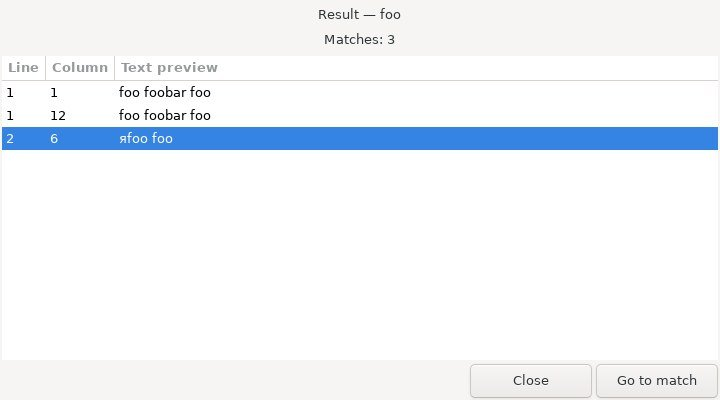
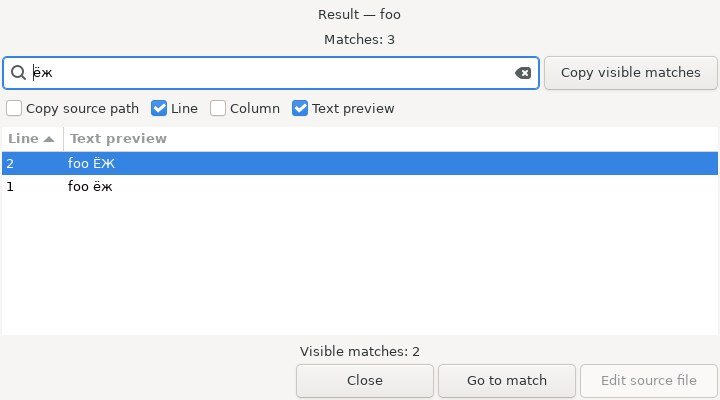
Add search result filtering, output fields, TSV clipboard and native source opening

diff --git a/src/insight-diff.c b/src/insight-diff.c
@@ -26,6 +26,7 @@ typedef struct {
  GtkListStore *list; GtkWidget *hunk_view; GtkTextBuffer *output; GtkTreeSelection *selection;
  gchar *sources[2],*loaded_paths[2],*saved;
  InsightDiff diff; GtkTextMark **marks;
+ gboolean search_fields[4];
  GPtrArray *history; guint position;guint64 history_serial; gboolean changing,user_action,pending;
 } Merge;
 static GKeyFile *view_defaults;
@@ -36,12 +37,13 @@ static void view_controls(Merge *m,GtkWidget **controls) {
  GtkWidget *items[]={m->mono,m->numbers,m->list_toggle,m->wrap_toggle,m->sync,m->vertical,m->overview,m->ignore_space,m->ignore_eol,m->visible_space,m->visible_eol};for(guint i=0;i<G_N_ELEMENTS(items);i++) controls[i]=items[i];
 }
 static void view_copy(GKeyFile *from,GKeyFile *to) {
- g_key_file_remove_group(to,view_group,NULL);const gchar *extra[]={"version","zoom","width","height"};
+ g_key_file_remove_group(to,view_group,NULL);const gchar *extra[]={"version","zoom","width","height","search-file","search-line","search-column","search-text"};
  for(guint i=0;i<G_N_ELEMENTS(view_checks)+G_N_ELEMENTS(extra);i++) { const gchar *name=i<G_N_ELEMENTS(view_checks) ? view_checks[i] : extra[i-G_N_ELEMENTS(view_checks)];gchar *value=g_key_file_get_value(from,view_group,name,NULL);if(value && strlen(value)<=128) g_key_file_set_value(to,view_group,name,value);g_free(value); }
 }
 static void view_save(Merge *m,GKeyFile *settings) {
  GtkWidget *controls[G_N_ELEMENTS(view_checks)];view_controls(m,controls);g_key_file_set_integer(settings,view_group,"version",1);
  for(guint i=0;i<G_N_ELEMENTS(view_checks);i++) g_key_file_set_boolean(settings,view_group,view_checks[i],gtk_toggle_button_get_active(GTK_TOGGLE_BUTTON(controls[i])));
+ const gchar *fields[]={"search-file","search-line","search-column","search-text"};for(guint i=0;i<4;i++) g_key_file_set_boolean(settings,view_group,fields[i],m->search_fields[i]);
  gint width,height;gtk_window_get_size(GTK_WINDOW(m->window),&width,&height);g_key_file_set_integer(settings,view_group,"width",CLAMP(width,640,4000));g_key_file_set_integer(settings,view_group,"height",CLAMP(height,400,2400));g_key_file_set_integer(settings,view_group,"zoom",gtk_spin_button_get_value_as_int(GTK_SPIN_BUTTON(m->zoom)));
 }
 static gboolean view_integer(GKeyFile *settings,const gchar *name,gint low,gint high,gint *out) {
@@ -51,6 +53,7 @@ static void view_restore(Merge *m,GKeyFile *settings) {
  if(!settings || g_key_file_get_integer(settings,view_group,"version",NULL)!=1) return;
  GtkWidget *controls[G_N_ELEMENTS(view_checks)];view_controls(m,controls);
  for(guint i=0;i<G_N_ELEMENTS(view_checks);i++) { GError *error=NULL;gboolean value=g_key_file_get_boolean(settings,view_group,view_checks[i],&error);if(!error) gtk_toggle_button_set_active(GTK_TOGGLE_BUTTON(controls[i]),value);g_clear_error(&error); }
+ const gchar *fields[]={"search-file","search-line","search-column","search-text"};for(guint i=0;i<4;i++) { GError *error=NULL;gboolean value=g_key_file_get_boolean(settings,view_group,fields[i],&error);if(!error) m->search_fields[i]=value;g_clear_error(&error); }
  gint value;if(view_integer(settings,"zoom",50,250,&value)) gtk_spin_button_set_value(GTK_SPIN_BUTTON(m->zoom),value);gint width=1100,height=700;view_integer(settings,"width",640,4000,&width);view_integer(settings,"height",400,2400,&height);gtk_window_resize(GTK_WINDOW(m->window),width,height);
 }
 void insight_diff_read(GKeyFile *settings) { if(!view_defaults) view_defaults=g_key_file_new();view_copy(settings,view_defaults); }
@@ -248,6 +251,39 @@ static void selection_search(Merge *m,guint side,gint direction) {
  if(direction) { gtk_toggle_button_set_active(GTK_TOGGLE_BUTTON(m->find_word),TRUE);gtk_text_buffer_select_range(buffer,&a,&z);find_text(m,direction<0);gtk_widget_grab_focus(m->views[side]); }
 }
 static void search_result_activated(GtkTreeView *view,GtkTreePath *path,GtkTreeViewColumn *column,gpointer dialog) { (void)view;(void)path;(void)column;gtk_dialog_response(GTK_DIALOG(dialog),GTK_RESPONSE_APPLY); }
+typedef struct { GtkWidget *dialog,*tree,*filter_entry,*fields[4],*status;GtkTreeModelFilter *filter;gchar *fold,*source;gboolean can_edit,closing; } SearchOutput;
+static gboolean search_output_visible(GtkTreeModel *model,GtkTreeIter *iter,gpointer data) {
+ SearchOutput *out=data;if(!*out->fold) return TRUE;gchar *text=NULL;gtk_tree_model_get(model,iter,4,&text,-1);gchar *fold=g_utf8_casefold(text ? text : "",-1);gboolean visible=strstr(fold,out->fold)!=NULL;g_free(fold);g_free(text);return visible;
+}
+static void search_output_selection(GtkTreeSelection *selection,gpointer data) {
+ SearchOutput *out=data;if(out->closing) return;GtkTreeIter iter;GtkTreeModel *model;gboolean selected=gtk_tree_selection_get_selected(selection,&model,&iter);gtk_dialog_set_response_sensitive(GTK_DIALOG(out->dialog),GTK_RESPONSE_APPLY,selected);gtk_dialog_set_response_sensitive(GTK_DIALOG(out->dialog),GTK_RESPONSE_YES,selected && out->can_edit);
+}
+static void search_output_filter(GtkEditable *entry,gpointer data) {
+ SearchOutput *out=data;if(out->closing) return;g_free(out->fold);out->fold=g_utf8_casefold(gtk_entry_get_text(GTK_ENTRY(entry)),-1);gtk_tree_model_filter_refilter(out->filter);gchar *label=g_strdup_printf("Visible matches: %u",gtk_tree_model_iter_n_children(gtk_tree_view_get_model(GTK_TREE_VIEW(out->tree)),NULL));gtk_label_set_text(GTK_LABEL(out->status),label);g_free(label);
+}
+static void search_output_columns(GtkToggleButton *button,gpointer data) {
+ (void)button;SearchOutput *out=data;if(out->closing) return;for(guint i=0;i<3;i++) gtk_tree_view_column_set_visible(gtk_tree_view_get_column(GTK_TREE_VIEW(out->tree),i),gtk_toggle_button_get_active(GTK_TOGGLE_BUTTON(out->fields[i+1])));
+}
+static void tsv_field(GString *out,const gchar *text) {
+ for(const gchar *p=text;*p;p++) { if(*p=='\t') g_string_append(out,"\\t");else if(*p=='\r') g_string_append(out,"\\r");else if(*p=='\n') g_string_append(out,"\\n");else if(*p=='\\') g_string_append(out,"\\\\");else g_string_append_c(out,*p); }
+}
+static void search_output_copy(GtkWidget *button,gpointer data) {
+ (void)button;SearchOutput *out=data;if(out->closing) return;gboolean fields[4],any=FALSE;for(guint i=0;i<4;i++) { fields[i]=gtk_toggle_button_get_active(GTK_TOGGLE_BUTTON(out->fields[i]));any|=fields[i]; }
+ if(!any) { gtk_label_set_text(GTK_LABEL(out->status),"Select at least one output field.");return; }
+ GString *text=g_string_new(NULL);const gchar *headers[]={"File","Line","Column","Text"};gboolean first=TRUE;
+ for(guint i=0;i<4;i++) if(fields[i]) { if(!first) g_string_append_c(text,'\t');g_string_append(text,headers[i]);first=FALSE; }
+  g_string_append_c(text,'\n');
+ GtkTreeModel *model=gtk_tree_view_get_model(GTK_TREE_VIEW(out->tree));GtkTreeIter iter;guint rows=0;gboolean exceeded=FALSE;
+ for(gboolean valid=gtk_tree_model_get_iter_first(model,&iter);valid;valid=gtk_tree_model_iter_next(model,&iter)) {
+  guint line,column;gchar *excerpt=NULL;gtk_tree_model_get(model,&iter,2,&line,3,&column,4,&excerpt,-1);gchar *line_text=g_strdup_printf("%u",line),*column_text=g_strdup_printf("%u",column);const gchar *values[]={out->source,line_text,column_text,excerpt ? excerpt : ""};first=TRUE;
+  for(guint i=0;i<4;i++) if(fields[i]) { if(!first) g_string_append_c(text,'\t');tsv_field(text,values[i]);first=FALSE; }
+  g_string_append_c(text,'\n');g_free(excerpt);g_free(line_text);g_free(column_text);rows++;
+  if(text->len>4*1024*1024) { exceeded=TRUE;break; }
+ }
+ if(exceeded) gtk_label_set_text(GTK_LABEL(out->status),"Copy limit: 4 MiB. Clipboard unchanged.");
+ else { gtk_clipboard_set_text(gtk_clipboard_get(GDK_SELECTION_CLIPBOARD),text->str,text->len);gchar *label=g_strdup_printf("Copied visible matches: %u",rows);gtk_label_set_text(GTK_LABEL(out->status),label);g_free(label); }
+ g_string_free(text,TRUE);
+}
 static void find_all(Merge *m,guint side) {
  if(m->busy || side>2) return;
  const gchar *query=gtk_entry_get_text(GTK_ENTRY(m->find_entry));if(!*query) { gtk_label_set_text(GTK_LABEL(m->find_status),"Enter search text.");return; }
@@ -260,14 +296,21 @@ static void find_all(Merge *m,guint side) {
   gchar *excerpt=gtk_text_buffer_get_text(buffer,&begin,&end,TRUE);for(gchar *p=excerpt;*p;p++) if(*p=='\r'||*p=='\n'||*p=='\t') *p=' ';
   GtkTreeIter iter;gtk_list_store_append(model,&iter);gtk_list_store_set(model,&iter,0,gtk_text_iter_get_offset(&a),1,gtk_text_iter_get_offset(&z),2,gtk_text_iter_get_line(&a)+1,3,gtk_text_iter_get_line_offset(&a)+1,4,excerpt,-1);g_free(excerpt);count++;start=z;
  }
- GtkWidget *dialog=gtk_dialog_new_with_buttons("Pane Search Results",GTK_WINDOW(window),GTK_DIALOG_MODAL|GTK_DIALOG_DESTROY_WITH_PARENT,"Close",GTK_RESPONSE_CANCEL,"Go to match",GTK_RESPONSE_APPLY,NULL);g_object_ref(dialog);gtk_widget_set_name(dialog,"insight-diff-search-results");gtk_window_set_default_size(GTK_WINDOW(dialog),720,400);
+ GtkWidget *dialog=gtk_dialog_new_with_buttons("Pane Search Results",GTK_WINDOW(window),GTK_DIALOG_MODAL|GTK_DIALOG_DESTROY_WITH_PARENT,"Close",GTK_RESPONSE_CANCEL,"Go to match",GTK_RESPONSE_APPLY,"Edit source file",GTK_RESPONSE_YES,NULL);g_object_ref(dialog);gtk_widget_set_name(dialog,"insight-diff-search-results");gtk_window_set_default_size(GTK_WINDOW(dialog),720,400);
  GtkWidget *box=gtk_dialog_get_content_area(GTK_DIALOG(dialog));gchar *heading=g_strdup_printf("%s — %s",insight_tr(side==0 ? "Left" : side==1 ? "Right" : "Result"),query);GtkWidget *pattern=gtk_label_new(heading);g_free(heading);gtk_label_set_ellipsize(GTK_LABEL(pattern),PANGO_ELLIPSIZE_END);gtk_box_pack_start(GTK_BOX(box),pattern,FALSE,FALSE,4);gchar *summary=g_strdup_printf(truncated ? "Showing first %u matches (limit reached)." : "Matches: %u",count);gtk_box_pack_start(GTK_BOX(box),gtk_label_new(summary),FALSE,FALSE,4);g_free(summary);
- GtkWidget *tree=gtk_tree_view_new_with_model(GTK_TREE_MODEL(model));g_object_unref(model);gtk_widget_set_name(tree,"insight-diff-search-results-list");g_signal_connect_object(tree,"row-activated",G_CALLBACK(search_result_activated),dialog,0);const gchar *titles[]={"Line","Column","Text preview"};for(guint i=0;i<3;i++) gtk_tree_view_insert_column_with_attributes(GTK_TREE_VIEW(tree),-1,titles[i],gtk_cell_renderer_text_new(),"text",i+2,NULL);
- GtkWidget *scroll=gtk_scrolled_window_new(NULL,NULL);gtk_container_add(GTK_CONTAINER(scroll),tree);gtk_box_pack_start(GTK_BOX(box),scroll,TRUE,TRUE,4);gtk_dialog_set_response_sensitive(GTK_DIALOG(dialog),GTK_RESPONSE_APPLY,count>0);GtkTreeSelection *selection=g_object_ref(gtk_tree_view_get_selection(GTK_TREE_VIEW(tree)));if(count) { GtkTreePath *path=gtk_tree_path_new_first();gtk_tree_view_set_cursor(GTK_TREE_VIEW(tree),path,NULL,FALSE);gtk_tree_path_free(path); }gtk_widget_show_all(dialog);
+ SearchOutput *out=g_new0(SearchOutput,1);out->dialog=dialog;out->fold=g_strdup("");gchar *native_source=side<2 && m->loaded_paths[side] ? g_strdup(m->loaded_paths[side]) : NULL;out->source=native_source ? g_filename_display_name(native_source) : g_strdup(side==0 ? "Left" : side==1 ? "Right" : "Result");out->can_edit=native_source && source_opener;
+ GtkWidget *controls=gtk_box_new(GTK_ORIENTATION_HORIZONTAL,4);gtk_box_pack_start(GTK_BOX(box),controls,FALSE,FALSE,4);out->filter_entry=gtk_search_entry_new();gtk_entry_set_placeholder_text(GTK_ENTRY(out->filter_entry),"Filter displayed matches");gtk_entry_set_max_length(GTK_ENTRY(out->filter_entry),256);gtk_widget_set_name(out->filter_entry,"insight-diff-search-filter");gtk_box_pack_start(GTK_BOX(controls),out->filter_entry,TRUE,TRUE,0);
+ GtkWidget *copy=gtk_button_new_with_label("Copy visible matches");gtk_widget_set_name(copy,"insight-diff-search-copy");gtk_box_pack_start(GTK_BOX(controls),copy,FALSE,FALSE,0);g_signal_connect(copy,"clicked",G_CALLBACK(search_output_copy),out);
+ GtkWidget *formats=gtk_box_new(GTK_ORIENTATION_HORIZONTAL,4);gtk_box_pack_start(GTK_BOX(box),formats,FALSE,FALSE,4);const gchar *field_labels[]={"Copy source path","Line","Column","Text preview"};for(guint i=0;i<4;i++) { out->fields[i]=gtk_check_button_new_with_label(field_labels[i]);gtk_toggle_button_set_active(GTK_TOGGLE_BUTTON(out->fields[i]),m->search_fields[i]);gtk_box_pack_start(GTK_BOX(formats),out->fields[i],FALSE,FALSE,0);g_object_ref(out->fields[i]);gchar *name=g_strdup_printf("insight-diff-search-field-%u",i);gtk_widget_set_name(out->fields[i],name);g_free(name);g_signal_connect(out->fields[i],"toggled",G_CALLBACK(search_output_columns),out); }
+ out->filter=GTK_TREE_MODEL_FILTER(gtk_tree_model_filter_new(GTK_TREE_MODEL(model),NULL));g_object_unref(model);gtk_tree_model_filter_set_visible_func(out->filter,search_output_visible,out,NULL);GtkTreeModel *sorted=gtk_tree_model_sort_new_with_model(GTK_TREE_MODEL(out->filter));GtkWidget *tree=gtk_tree_view_new_with_model(sorted);g_object_unref(sorted);out->tree=tree;gtk_widget_set_name(tree,"insight-diff-search-results-list");g_signal_connect_object(tree,"row-activated",G_CALLBACK(search_result_activated),dialog,0);const gchar *titles[]={"Line","Column","Text preview"};for(guint i=0;i<3;i++) { gtk_tree_view_insert_column_with_attributes(GTK_TREE_VIEW(tree),-1,titles[i],gtk_cell_renderer_text_new(),"text",i+2,NULL);gtk_tree_view_column_set_sort_column_id(gtk_tree_view_get_column(GTK_TREE_VIEW(tree),i),i+2); }search_output_columns(NULL,out);
+ GtkWidget *scroll=gtk_scrolled_window_new(NULL,NULL);gtk_container_add(GTK_CONTAINER(scroll),tree);gtk_box_pack_start(GTK_BOX(box),scroll,TRUE,TRUE,4);out->status=gtk_label_new("");gtk_box_pack_start(GTK_BOX(box),out->status,FALSE,FALSE,4);
+ GtkTreeSelection *selection=g_object_ref(gtk_tree_view_get_selection(GTK_TREE_VIEW(tree)));g_signal_connect(selection,"changed",G_CALLBACK(search_output_selection),out);if(count) { GtkTreePath *path=gtk_tree_path_new_first();gtk_tree_view_set_cursor(GTK_TREE_VIEW(tree),path,NULL,FALSE);gtk_tree_path_free(path); }search_output_selection(selection,out);g_signal_connect(out->filter_entry,"changed",G_CALLBACK(search_output_filter),out);gtk_widget_show_all(dialog);
  gint response=gtk_dialog_run(GTK_DIALOG(dialog));m=g_object_get_data(G_OBJECT(window),"insight-diff-state");
- if(response==GTK_RESPONSE_APPLY && m && !m->busy && m->history_serial==serial) { GtkTreeModel *selected_model;GtkTreeIter iter;if(gtk_tree_selection_get_selected(selection,&selected_model,&iter)) { gint begin,end;gtk_tree_model_get(selected_model,&iter,0,&begin,1,&end,-1);buffer=gtk_text_view_get_buffer(GTK_TEXT_VIEW(m->views[side]));gtk_text_buffer_get_iter_at_offset(buffer,&a,begin);gtk_text_buffer_get_iter_at_offset(buffer,&z,end);gtk_text_buffer_select_range(buffer,&a,&z);gtk_text_view_scroll_to_iter(GTK_TEXT_VIEW(m->views[side]),&a,0.1,TRUE,0,0.5);gtk_combo_box_set_active(GTK_COMBO_BOX(m->find_side),side);gtk_widget_grab_focus(m->views[side]); } }
- else if(response==GTK_RESPONSE_APPLY && m && m->history_serial!=serial) gtk_label_set_text(GTK_LABEL(m->find_status),"Text changed; run Find all again.");
- gtk_widget_destroy(dialog);g_object_unref(selection);g_object_unref(dialog);g_object_unref(window);
+ gchar *open_path=NULL;guint open_line=1;
+ if((response==GTK_RESPONSE_APPLY || response==GTK_RESPONSE_YES) && m && !m->busy && m->history_serial==serial) { GtkTreeModel *selected_model;GtkTreeIter iter;if(gtk_tree_selection_get_selected(selection,&selected_model,&iter)) { gint begin,end;gtk_tree_model_get(selected_model,&iter,0,&begin,1,&end,2,&open_line,-1);if(response==GTK_RESPONSE_YES && out->can_edit) open_path=g_strdup(native_source);buffer=gtk_text_view_get_buffer(GTK_TEXT_VIEW(m->views[side]));gtk_text_buffer_get_iter_at_offset(buffer,&a,begin);gtk_text_buffer_get_iter_at_offset(buffer,&z,end);gtk_text_buffer_select_range(buffer,&a,&z);gtk_text_view_scroll_to_iter(GTK_TEXT_VIEW(m->views[side]),&a,0.1,TRUE,0,0.5);gtk_combo_box_set_active(GTK_COMBO_BOX(m->find_side),side);gtk_widget_grab_focus(m->views[side]); } }
+ else if((response==GTK_RESPONSE_APPLY || response==GTK_RESPONSE_YES) && m && m->history_serial!=serial) gtk_label_set_text(GTK_LABEL(m->find_status),"Text changed; run Find all again.");
+ if(m) for(guint i=0;i<4;i++) m->search_fields[i]=gtk_toggle_button_get_active(GTK_TOGGLE_BUTTON(out->fields[i]));
+ out->closing=TRUE;gtk_widget_destroy(dialog);g_object_unref(selection);for(guint i=0;i<4;i++) g_object_unref(out->fields[i]);g_object_unref(out->filter);g_free(out->fold);g_free(out->source);g_free(out);g_free(native_source);g_object_unref(dialog);g_object_unref(window);if(open_path && source_opener) source_opener(open_path,open_line);g_free(open_path);
 }
 static void find_all_clicked(GtkWidget *widget,gpointer data) { (void)widget;Merge *m=data;find_all(m,gtk_combo_box_get_active(GTK_COMBO_BOX(m->find_side))); }
 static void find_text(Merge *m,gboolean backwards) {
@@ -871,7 +914,7 @@ static GtkWidget *scroll(GtkWidget *child) {
 }
 static void show_directory(GtkWidget *widget,gpointer data) { (void)widget;Merge *m=data;insight_directory_show(m->window); }
 static Merge *merge_new(GtkWidget *parent) {
- Merge *m=g_new0(Merge,1);m->history=g_ptr_array_new_with_free_func(snapshot_free);m->saved=g_strdup("");
+ Merge *m=g_new0(Merge,1);for(guint i=0;i<4;i++) m->search_fields[i]=TRUE;m->history=g_ptr_array_new_with_free_func(snapshot_free);m->saved=g_strdup("");
  m->window=gtk_window_new(GTK_WINDOW_TOPLEVEL);gtk_widget_set_name(m->window,"insight-diff-window");gtk_window_set_transient_for(GTK_WINDOW(m->window),GTK_WINDOW(parent));gtk_window_set_destroy_with_parent(GTK_WINDOW(m->window),TRUE);gtk_window_set_default_size(GTK_WINDOW(m->window),1100,700);
  GtkWidget *box=gtk_box_new(GTK_ORIENTATION_VERTICAL,6);gtk_container_set_border_width(GTK_CONTAINER(box),8);gtk_container_add(GTK_CONTAINER(m->window),box);insight_panel_help_attach(box,"internal-diff.md");
  for(int i=0;i<2;i++) {

diff --git a/insight/tests/diff_gui_test.c b/insight/tests/diff_gui_test.c
@@ -215,8 +215,33 @@ static void search_actions_test(void) {
  GString *many=g_string_new(NULL);for(guint i=0;i<5100;i++) g_string_append(many,"foo\n");gtk_text_buffer_set_text(buffer,many->str,-1);g_string_free(many,TRUE);response.rows=5000;response.response=GTK_RESPONSE_CANCEL;response.mutate=FALSE;g_timeout_add(100,search_response,&response);find_all(m,2);
  gboolean gone=FALSE;g_object_weak_ref(G_OBJECT(m->window),finalized,&gone);g_idle_add(close_options_parent,m->window);find_all(m,2);flush();g_assert_true(gone);
 }
+typedef struct { gboolean source; } OutputResponse;
+static gboolean output_response(gpointer data) {
+ OutputResponse *action=data;GList *windows=gtk_window_list_toplevels();GtkWidget *dialog=NULL;
+ for(GList *p=windows;p;p=p->next) if(!g_strcmp0(gtk_widget_get_name(p->data),"insight-diff-search-results")) dialog=p->data;
+ g_list_free(windows);g_assert_nonnull(dialog);GtkWidget *tree=named(dialog,"insight-diff-search-results-list"),*filter=named(dialog,"insight-diff-search-filter"),*copy=named(dialog,"insight-diff-search-copy");GtkTreeModel *model=gtk_tree_view_get_model(GTK_TREE_VIEW(tree));gtk_entry_set_text(GTK_ENTRY(filter),"ёж");g_assert_cmpint(gtk_tree_model_iter_n_children(model,NULL),==,2);gtk_tree_sortable_set_sort_column_id(GTK_TREE_SORTABLE(model),2,GTK_SORT_DESCENDING);gtk_button_clicked(GTK_BUTTON(copy));gchar *text=gtk_clipboard_wait_for_text(gtk_clipboard_get(GDK_SELECTION_CLIPBOARD));g_assert_cmpstr(text,==,action->source ? "File\tLine\tColumn\tText\n/tmp/a\\tb.c\t2\t1\tfoo ЁЖ\n/tmp/a\\tb.c\t1\t1\tfoo ёж\n" : "File\tLine\tColumn\tText\nResult\t2\t1\tfoo ЁЖ\nResult\t1\t1\tfoo ёж\n");g_free(text);
+ for(guint i=0;i<4;i++) { gchar *name=g_strdup_printf("insight-diff-search-field-%u",i);gtk_toggle_button_set_active(GTK_TOGGLE_BUTTON(named(dialog,name)),i==1);g_free(name); }g_assert_false(gtk_tree_view_column_get_visible(gtk_tree_view_get_column(GTK_TREE_VIEW(tree),1)));gtk_button_clicked(GTK_BUTTON(copy));text=gtk_clipboard_wait_for_text(gtk_clipboard_get(GDK_SELECTION_CLIPBOARD));g_assert_cmpstr(text,==,"Line\n2\n1\n");g_free(text);
+ gtk_toggle_button_set_active(GTK_TOGGLE_BUTTON(named(dialog,"insight-diff-search-field-1")),FALSE);gtk_button_clicked(GTK_BUTTON(copy));text=gtk_clipboard_wait_for_text(gtk_clipboard_get(GDK_SELECTION_CLIPBOARD));g_assert_cmpstr(text,==,"Line\n2\n1\n");g_free(text);
+ gtk_toggle_button_set_active(GTK_TOGGLE_BUTTON(named(dialog,"insight-diff-search-field-1")),TRUE);gtk_toggle_button_set_active(GTK_TOGGLE_BUTTON(named(dialog,"insight-diff-search-field-3")),TRUE);gtk_entry_set_text(GTK_ENTRY(filter),"missing");g_assert_cmpint(gtk_tree_model_iter_n_children(model,NULL),==,0);g_assert_false(gtk_widget_get_sensitive(gtk_dialog_get_widget_for_response(GTK_DIALOG(dialog),GTK_RESPONSE_APPLY)));gtk_entry_set_text(GTK_ENTRY(filter),"ёж");GtkTreePath *path=gtk_tree_path_new_first();gtk_tree_view_set_cursor(GTK_TREE_VIEW(tree),path,NULL,FALSE);gtk_tree_path_free(path);
+ const gchar *capture=g_getenv("INSIGHT_DIFF_SEARCH_CAPTURE");if(capture && !action->source) { gint64 until=g_get_monotonic_time()+200000;while(g_get_monotonic_time()<until) { flush();g_usleep(1000); }GdkWindow *window=gtk_widget_get_window(dialog);GdkPixbuf *pixbuf=gdk_pixbuf_get_from_window(window,0,0,gdk_window_get_width(window),gdk_window_get_height(window));g_assert_true(gdk_pixbuf_save(pixbuf,capture,"jpeg",NULL,"quality","88",NULL));g_object_unref(pixbuf); }
+ gtk_dialog_response(GTK_DIALOG(dialog),action->source ? GTK_RESPONSE_YES : GTK_RESPONSE_APPLY);return G_SOURCE_REMOVE;
+}
+static void search_output_test(void) {
+ GString *escaped=g_string_new(NULL);tsv_field(escaped,"a\tb\nc\\d\r");g_assert_cmpstr(escaped->str,==,"a\\tb\\nc\\\\d\\r");g_string_free(escaped,TRUE);
+ InsightDiffOpen previous=source_opener;source_opener=source_opened;
+ for(guint side=0;side<2;side++) { Merge *m=merge_new(NULL);for(guint i=0;i<4;i++) m->search_fields[i]=TRUE;guint pane=side ? 0 : 2;GtkTextBuffer *buffer=gtk_text_view_get_buffer(GTK_TEXT_VIEW(m->views[pane]));gtk_text_buffer_set_text(buffer,"foo ёж\nfoo ЁЖ\nfoo other\n",-1);if(side) m->loaded_paths[0]=g_strdup("/tmp/a\tb.c");gtk_entry_set_text(GTK_ENTRY(m->find_entry),"foo");guint history=m->history->len;OutputResponse response={side!=0};g_timeout_add(100,output_response,&response);find_all(m,pane);GtkTextIter a,z;g_assert_true(gtk_text_buffer_get_selection_bounds(buffer,&a,&z));g_assert_cmpint(gtk_text_iter_get_line(&a),==,1);g_assert_cmpuint(m->history->len,==,history);g_assert_false(m->search_fields[0]);g_assert_true(m->search_fields[1]);g_assert_false(m->search_fields[2]);g_assert_true(m->search_fields[3]);if(side) { g_assert_cmpstr(editor_path,==,"/tmp/a\tb.c");g_assert_cmpuint(editor_line,==,2); }
+ GKeyFile *prefs=g_key_file_new();view_save(m,prefs);m->search_fields[0]=TRUE;view_restore(m,prefs);g_assert_false(m->search_fields[0]);g_key_file_unref(prefs);gtk_widget_destroy(m->window);flush(); }
+ source_opener=previous;
+}
+static gboolean output_limit_response(gpointer data) {
+ (void)data;GList *windows=gtk_window_list_toplevels();GtkWidget *dialog=NULL;for(GList *p=windows;p;p=p->next) if(!g_strcmp0(gtk_widget_get_name(p->data),"insight-diff-search-results")) dialog=p->data;
+ g_list_free(windows);g_assert_nonnull(dialog);gtk_clipboard_set_text(gtk_clipboard_get(GDK_SELECTION_CLIPBOARD),"sentinel",-1);gtk_button_clicked(GTK_BUTTON(named(dialog,"insight-diff-search-copy")));gchar *text=gtk_clipboard_wait_for_text(gtk_clipboard_get(GDK_SELECTION_CLIPBOARD));g_assert_cmpstr(text,==,"sentinel");g_free(text);gtk_dialog_response(GTK_DIALOG(dialog),GTK_RESPONSE_CANCEL);return G_SOURCE_REMOVE;
+}
+static void output_limit_test(void) {
+ Merge *m=merge_new(NULL);for(guint i=0;i<4;i++) m->search_fields[i]=TRUE;GString *text=g_string_new(NULL);for(guint i=0;i<5000;i++) g_string_append(text,"foo\n");gtk_text_buffer_set_text(gtk_text_view_get_buffer(GTK_TEXT_VIEW(m->views[0])),text->str,-1);g_string_free(text,TRUE);m->loaded_paths[0]=g_strnfill(1024,'a');gtk_entry_set_text(GTK_ENTRY(m->find_entry),"foo");g_timeout_add(100,output_limit_response,NULL);find_all(m,0);gtk_widget_destroy(m->window);flush();
+}
 int main(int argc,char **argv) {
- g_setenv("GSETTINGS_BACKEND","memory",TRUE);gtk_init(&argc,&argv);line_navigation_test();search_options_test();replace_test();case_test();line_edit_test();history_test();export_test();whitespace_test();search_actions_test();insight_diff_set_source_opener(source_opened);
+ g_setenv("GSETTINGS_BACKEND","memory",TRUE);gtk_init(&argc,&argv);line_navigation_test();search_options_test();replace_test();case_test();line_edit_test();history_test();export_test();whitespace_test();search_actions_test();search_output_test();output_limit_test();insight_diff_set_source_opener(source_opened);
  GError *error=NULL;gchar *dir=g_dir_make_tmp("insight-diff-XXXXXX",&error);g_assert_no_error(error);
  gchar *left=g_build_filename(dir,"left.txt",NULL),*right=g_build_filename(dir,"right.txt",NULL);
  const char *a="start\nleft\ncommon\nlast left\nend\n",*b="start\nright\ncommon\nlast right\nextra\nend\n";

diff --git a/insight/tests/directory_compare_native_gui_test.c b/insight/tests/directory_compare_native_gui_test.c
@@ -32,7 +32,7 @@ static gboolean save_selected_result(gpointer data) {
  gchar *path=gtk_file_chooser_get_filename(GTK_FILE_CHOOSER(dialog));gboolean ready=!g_strcmp0(path,export_path);g_free(path);if(!ready) return G_SOURCE_CONTINUE;gtk_dialog_response(GTK_DIALOG(dialog),GTK_RESPONSE_ACCEPT);return G_SOURCE_REMOVE;
 }
 static gboolean choose_search_match(gpointer data) {
- (void)data;GtkWidget *dialog=window_named("insight-diff-search-results");g_assert_nonnull(dialog);GtkWidget *tree=named(dialog,"insight-diff-search-results-list");g_assert_cmpint(gtk_tree_model_iter_n_children(gtk_tree_view_get_model(GTK_TREE_VIEW(tree)),NULL),==,1);gtk_dialog_response(GTK_DIALOG(dialog),GTK_RESPONSE_APPLY);return G_SOURCE_REMOVE;
+ (void)data;GtkWidget *dialog=window_named("insight-diff-search-results");g_assert_nonnull(dialog);GtkWidget *tree=named(dialog,"insight-diff-search-results-list");g_assert_cmpint(gtk_tree_model_iter_n_children(gtk_tree_view_get_model(GTK_TREE_VIEW(tree)),NULL),==,1);gtk_entry_set_text(GTK_ENTRY(named(dialog,"insight-diff-search-filter")),"8080");gtk_button_clicked(GTK_BUTTON(named(dialog,"insight-diff-search-copy")));gchar *text=gtk_clipboard_wait_for_text(gtk_clipboard_get(GDK_SELECTION_CLIPBOARD)),*path=g_build_filename(right,"config.ini",NULL),*expected=g_strdup_printf("File\tLine\tColumn\tText\n%s\t1\t1\tport = 8080\n",path);g_assert_cmpstr(text,==,expected);g_free(text);g_free(path);g_free(expected);GtkTreePath *row=gtk_tree_path_new_first();gtk_tree_view_set_cursor(GTK_TREE_VIEW(tree),row,NULL,FALSE);gtk_tree_path_free(row);gtk_toggle_button_set_active(GTK_TOGGLE_BUTTON(named(dialog,"insight-diff-search-field-2")),FALSE);gtk_dialog_response(GTK_DIALOG(dialog),GTK_RESPONSE_YES);return G_SOURCE_REMOVE;
 }
 static gboolean step(gpointer data) {
  (void)data;
@@ -88,5 +88,5 @@ int main(void) {
  gchar *unknown=g_build_filename(left,"payload.insight-unknown-binary-77",NULL);g_assert_true(g_file_set_contents(unknown,"a\0b",3,NULL));g_free(unknown);
  gchar *args[]={"directory-native","--new-instance","--no-session","--config",profile,source,NULL};g_timeout_add(250,step,NULL);g_timeout_add_seconds(30,timeout,NULL);g_log_set_always_fatal(G_LOG_FATAL_MASK|G_LOG_LEVEL_CRITICAL);
  gint result=main_lib(6,args);
- GKeyFile *saved=g_key_file_new();gchar *prefs=g_build_filename(profile,"insight","workbench.conf",NULL);g_assert_true(g_key_file_load_from_file(saved,prefs,G_KEY_FILE_NONE,NULL));g_assert_cmpint(g_key_file_get_integer(saved,"directory-compare","version",NULL),==,1);g_assert_true(g_key_file_get_boolean(saved,"directory-compare","known",NULL));g_assert_false(g_key_file_get_boolean(saved,"directory-compare","confirm",NULL));g_assert_cmpint(g_key_file_get_integer(saved,"file-compare","zoom",NULL),==,130);g_assert_true(g_key_file_get_boolean(saved,"file-compare","overview",NULL));g_assert_true(g_key_file_get_boolean(saved,"file-compare","visible-space",NULL));g_assert_true(g_key_file_get_boolean(saved,"file-compare","visible-eol",NULL));g_free(prefs);g_key_file_unref(saved);g_free(other);g_free(config);g_free(source);g_free(left);g_free(right);g_free(profile);g_free(root);g_free(export_path);return result;
+ GKeyFile *saved=g_key_file_new();gchar *prefs=g_build_filename(profile,"insight","workbench.conf",NULL);g_assert_true(g_key_file_load_from_file(saved,prefs,G_KEY_FILE_NONE,NULL));g_assert_cmpint(g_key_file_get_integer(saved,"directory-compare","version",NULL),==,1);g_assert_true(g_key_file_get_boolean(saved,"directory-compare","known",NULL));g_assert_false(g_key_file_get_boolean(saved,"directory-compare","confirm",NULL));g_assert_cmpint(g_key_file_get_integer(saved,"file-compare","zoom",NULL),==,130);g_assert_true(g_key_file_get_boolean(saved,"file-compare","overview",NULL));g_assert_true(g_key_file_get_boolean(saved,"file-compare","visible-space",NULL));g_assert_true(g_key_file_get_boolean(saved,"file-compare","visible-eol",NULL));g_assert_false(g_key_file_get_boolean(saved,"file-compare","search-column",NULL));g_assert_true(g_key_file_get_boolean(saved,"file-compare","search-file",NULL));g_free(prefs);g_key_file_unref(saved);g_free(other);g_free(config);g_free(source);g_free(left);g_free(right);g_free(profile);g_free(root);g_free(export_path);return result;
 }

diff --git a/insight/docs/en/internal-diff.md b/insight/docs/en/internal-diff.md
@@ -262,3 +262,11 @@ Ctrl+F3 searches for the next identifier occurrence; Ctrl+Shift+F3 searches back
 The list contains up to 5000 matches with one-based logical lines/columns and text excerpts, indicating when capped. **Go to match** or double-click selects the exact range; Close changes nothing. Text edits or a new comparison invalidate old positions, so stale navigation is rejected. Queries, lists and positions are not persisted. Commands do not edit text or merge history and are unavailable while comparison runs.
 
 ![Production GTK match list, isolated test fixture](../media/file-compare-search.jpg)
+
+### Filtering, formatting and copying search results
+
+**Filter displayed matches** applies a literal Unicode case-insensitive substring filter to the loaded excerpts, limited to 256 input characters. It filters the capped list of 5000 loaded matches rather than searching the entire file again. Column headers sort lines/columns numerically and excerpts by text. Navigation uses the selected row's range after filtering and sorting; hidden columns do not change stored ranges.
+
+Line, Column and Text preview checkboxes control table visibility and copied fields. **Copy source path** adds the completed comparison's source path to copied output, or the pane name for Result. **Copy visible matches** copies all visible rows in their current order using English TSV headers File/Line/Column/Text for enabled fields. Tabs, CR, LF and backslashes in fields are escaped as `\t`, `\r`, `\n`, `\\`. Excerpts are limited to 120 characters and already flatten line endings to spaces; copied excerpts are not full source text. No selected fields or output exceeding 4 MiB leaves the clipboard unchanged.
+
+**Edit source file** opens the selected source match at its line in the main editor. It is available only for loaded Left/Right sources, checks stale positions and writes no files. Use Go to match for Result. The four format flags persist with window preferences; filter, sort, query, paths and result rows are not persisted. The list capture above shows filtering, sorting and a hidden column.

diff --git a/insight/docs/internal-diff.md b/insight/docs/internal-diff.md
@@ -262,3 +262,11 @@ Ctrl+F3 searches for the next identifier occurrence; Ctrl+Shift+F3 searches back
 The list contains up to 5000 matches with one-based logical lines/columns and text excerpts, indicating when capped. **Go to match** or double-click selects the exact range; Close changes nothing. Text edits or a new comparison invalidate old positions, so stale navigation is rejected. Queries, lists and positions are not persisted. Commands do not edit text or merge history and are unavailable while comparison runs.
 
 ![Production GTK match list, isolated test fixture](media/file-compare-search.jpg)
+
+### Filtering, formatting and copying search results
+
+**Filter displayed matches** applies a literal Unicode case-insensitive substring filter to the loaded excerpts, limited to 256 input characters. It filters the capped list of 5000 loaded matches rather than searching the entire file again. Column headers sort lines/columns numerically and excerpts by text. Navigation uses the selected row's range after filtering and sorting; hidden columns do not change stored ranges.
+
+Line, Column and Text preview checkboxes control table visibility and copied fields. **Copy source path** adds the completed comparison's source path to copied output, or the pane name for Result. **Copy visible matches** copies all visible rows in their current order using English TSV headers File/Line/Column/Text for enabled fields. Tabs, CR, LF and backslashes in fields are escaped as `\t`, `\r`, `\n`, `\\`. Excerpts are limited to 120 characters and already flatten line endings to spaces; copied excerpts are not full source text. No selected fields or output exceeding 4 MiB leaves the clipboard unchanged.
+
+**Edit source file** opens the selected source match at its line in the main editor. It is available only for loaded Left/Right sources, checks stale positions and writes no files. Use Go to match for Result. The four format flags persist with window preferences; filter, sort, query, paths and result rows are not persisted. The list capture above shows filtering, sorting and a hidden column.

diff --git a/insight/docs/source-insight-parity.md b/insight/docs/source-insight-parity.md
@@ -460,3 +460,7 @@ Added visible ASCII spaces/tabs and line-ending overlays to all three native com
 ### 2026-10-16 — pane identifier search and match list
 
 Added Load Search String, forward/backward identifier search (Ctrl+F3/Ctrl+Shift+F3) and bounded Find All (toolbar, context and Ctrl+Shift+F). Unicode identifier traversal is bounded at 4096; identifier search enables whole-word matching and retains case/wrap options. Match lists cap at 5000, show one-based logical line/column and excerpts, support Go/double-click, and reject stale offsets via history serial. Modal lifetime survives parent destruction. GTK/UBSan covers Unicode, direction, range navigation, no-result/cap, stale text, unchanged history and parent close. Native Linux fixture invokes both shortcuts in the right source pane. Reference: [Searching the Current File](https://www.sourceinsight.com/doc/v4/userguide/Manual/Concepts/Searching_the_Current_File.htm).
+
+### 2026-10-16 — search output format, filter, clipboard and source editing
+
+Added Unicode case-insensitive excerpt filtering, numeric/text column sorting, persistent output-field flags, visible-row TSV copy with escaped fields and a 4 MiB all-or-nothing limit. Four whitelisted booleans persist; query/filter/sort/results/paths do not. Edit source file routes the selected filtered/sorted match through the native opener using completed native source paths and one-based match lines. Both navigation modes retain stale-serial/busy guards. GTK/UBSan verifies filter/sort/copy order, hidden/no fields, empty-filter results, Unicode, TSV escaping, size rejection, exact navigation and preference round trip. Native Linux fixture filters/copies a right-side match, opens its source and verifies persisted field settings. Reference: [Search Results Options](https://www.sourceinsight.com/doc/v4/userguide/Manual/Command_Reference/Search_Results_Options.htm).
